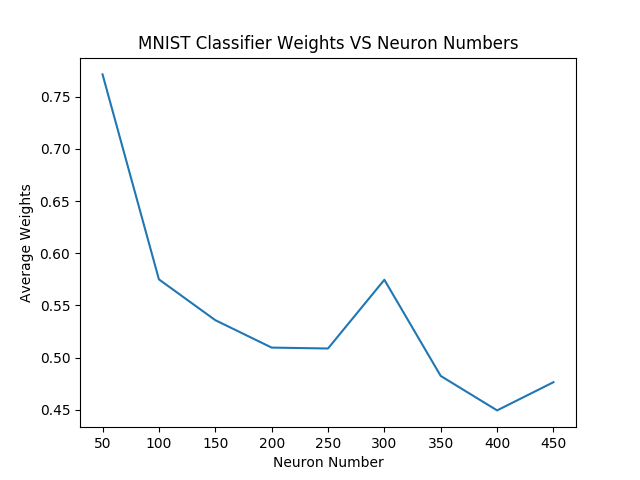
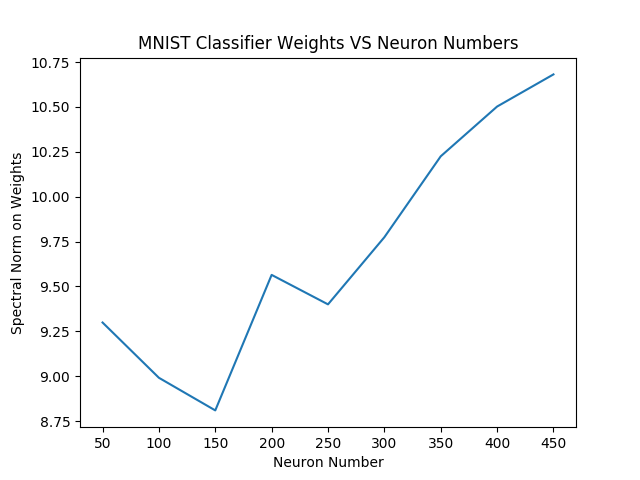
Use spectral norm instead of max norm for weights

diff --git a/structures_vs_robustness_v2_tuned_by_loss/neuron number/mnist.py b/structures_vs_robustness_v2_tuned_by_loss/neuron number/mnist.py
@@ -232,7 +232,7 @@ def get_average_weights_from_neuron_num(neuron_num, params, layer_num):
     params_nn = sess.run(params, feed_dict={})
 
     #Return the spectral norm for one of the weight matrices
-    return params_nn["w"+str(layer_num)].max()
+    return np.linalg.norm(params_nn["w"+str(layer_num)], ord=2, axis=(0, 1))
 
 def demonstrate_neuron_number_vs_weights(neuron_num_start, neuron_num_end, jump_num, layer_num):
     """ Demonstrate the neural net's average weights vs epoch number
@@ -256,11 +256,11 @@ def demonstrate_neuron_number_vs_weights(neuron_num_start, neuron_num_end, jump_
         weights_for_neuron_num = get_average_weights_from_neuron_num(neuron_num, params_nn, layer_num)
         weights_average.append(weights_for_neuron_num)
 
-        print("Neuron num: {0}, Weights on average for neuron number: {1}".format(neuron_num, weights_for_neuron_num))
+        print("Neuron num: {0},Spectral Norm on Weights for neuron number: {1}".format(neuron_num, weights_for_neuron_num))
     plt.plot(neuron_nums, weights_average)
     plt.title('MNIST Classifier Weights VS Neuron Numbers')
     plt.xlabel('Neuron Number')
-    plt.ylabel('Average Weights')
+    plt.ylabel('Spectral Norm on Weights')
     plt.show()
 
 #create_mnist_model(50, 550, 50)
